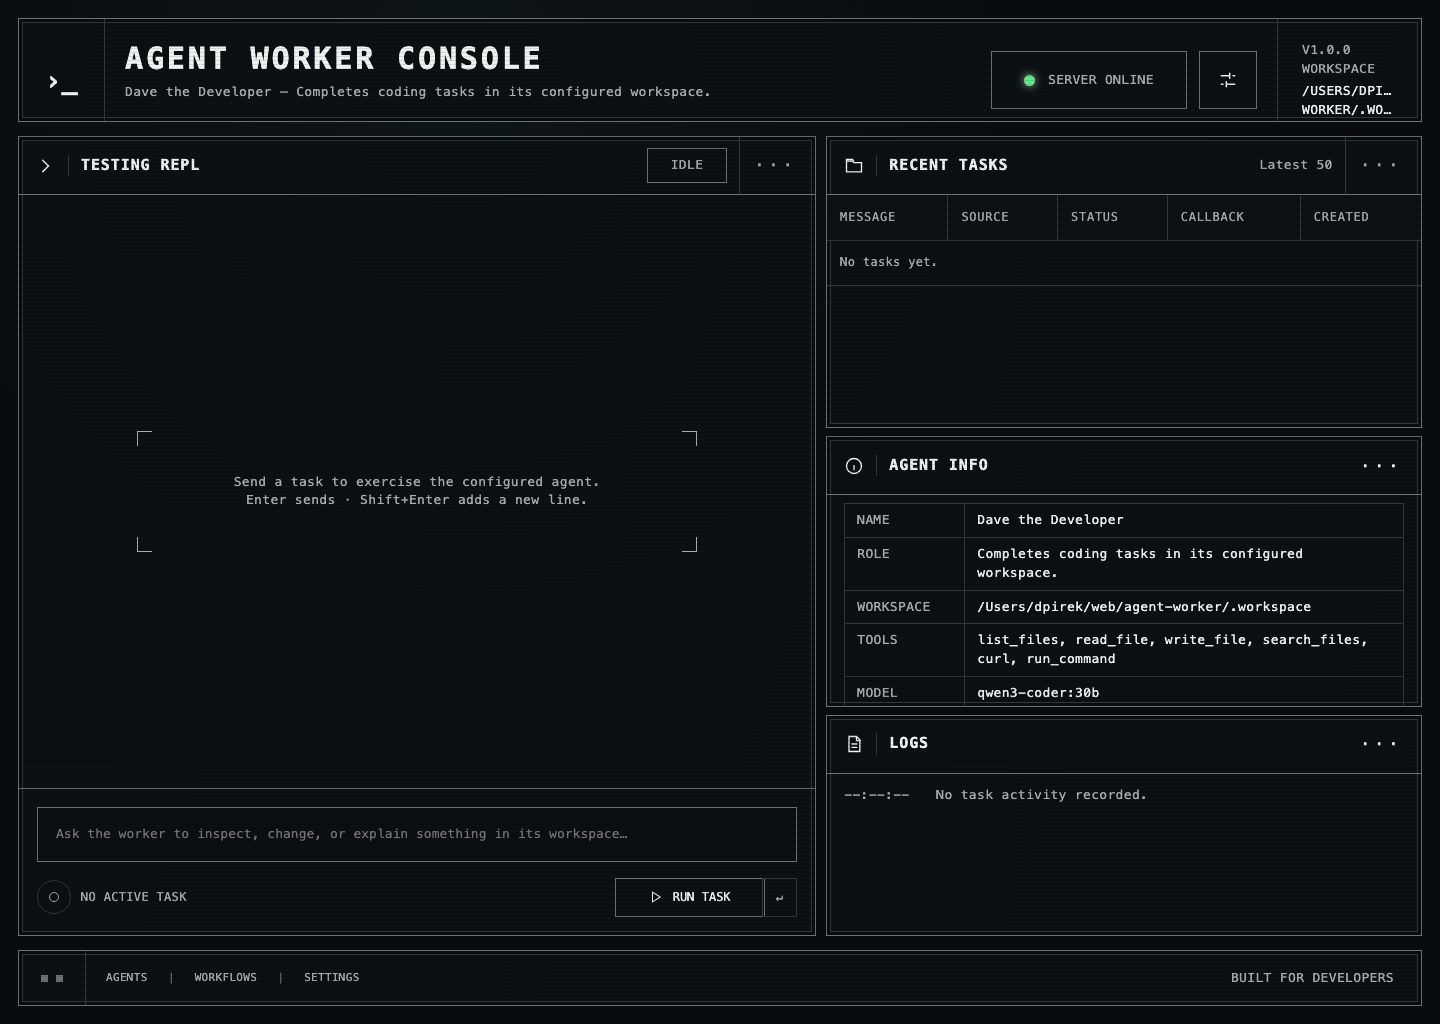
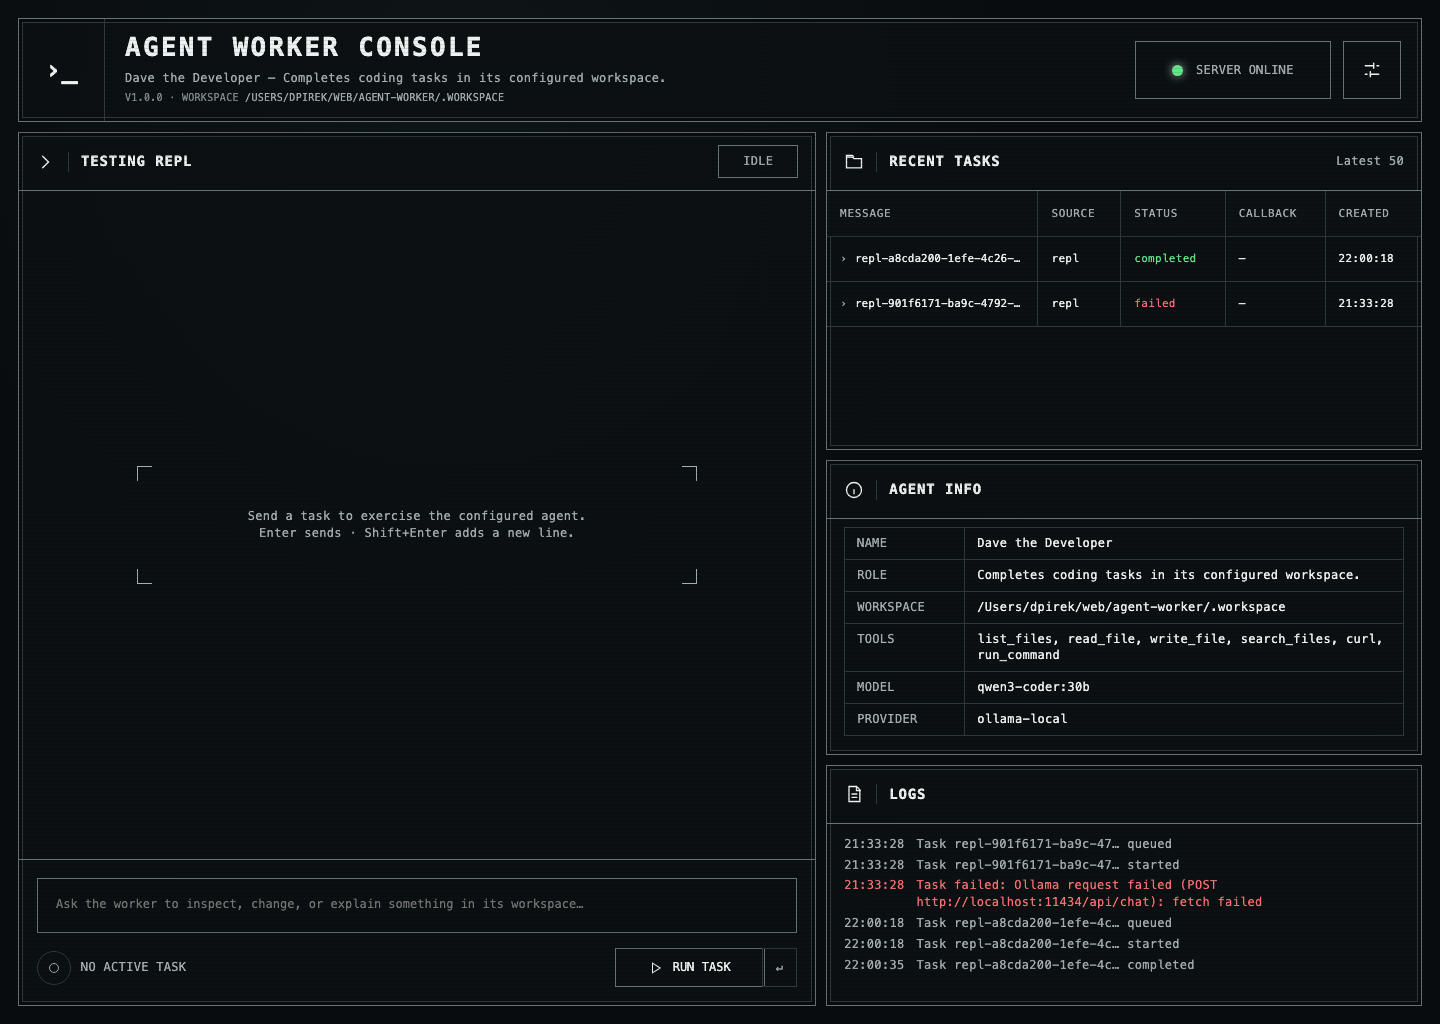
updating greadme

diff --git a/README.md b/README.md
@@ -1,5 +1,7 @@
 # Agent Worker
 
+![Agent Worker Console](screenshots/console-redesign.png)
+
 An asynchronous coding worker built on the agentic harness in `lib/`. It accepts a task over HTTP,
 immediately acknowledges it, runs a fresh `CodingAgent`, and POSTs the final result back to the
 caller's callback URL.
